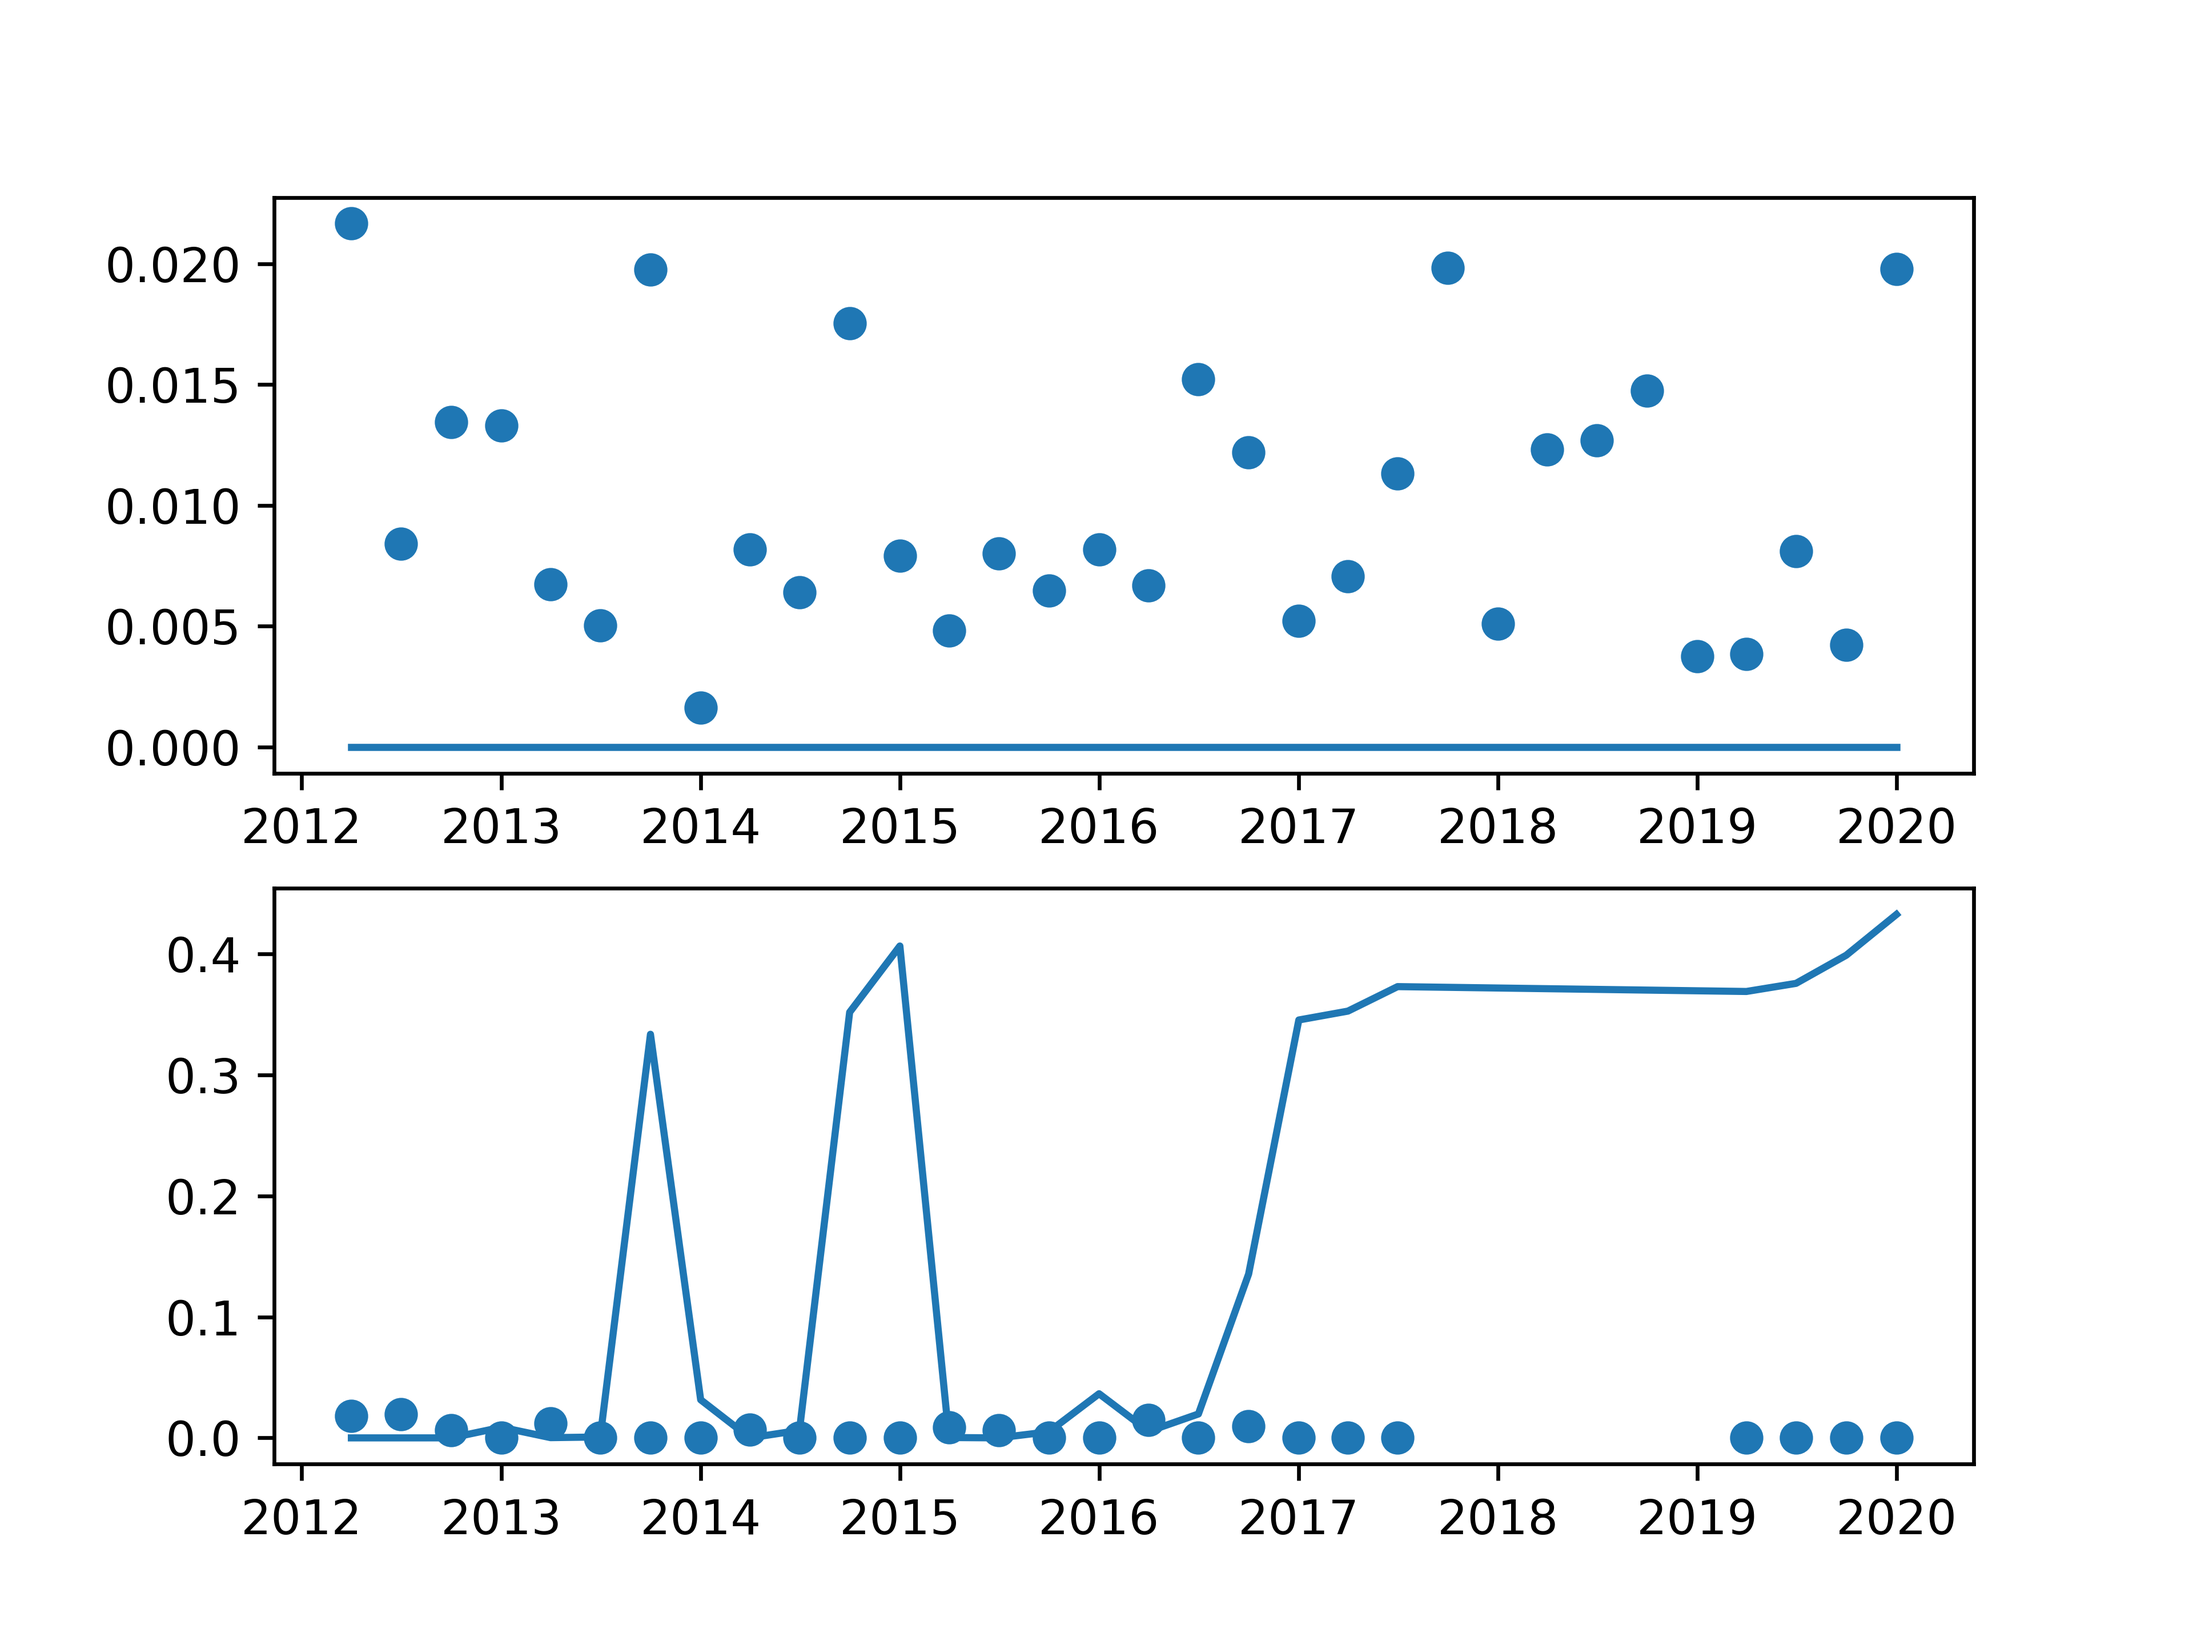
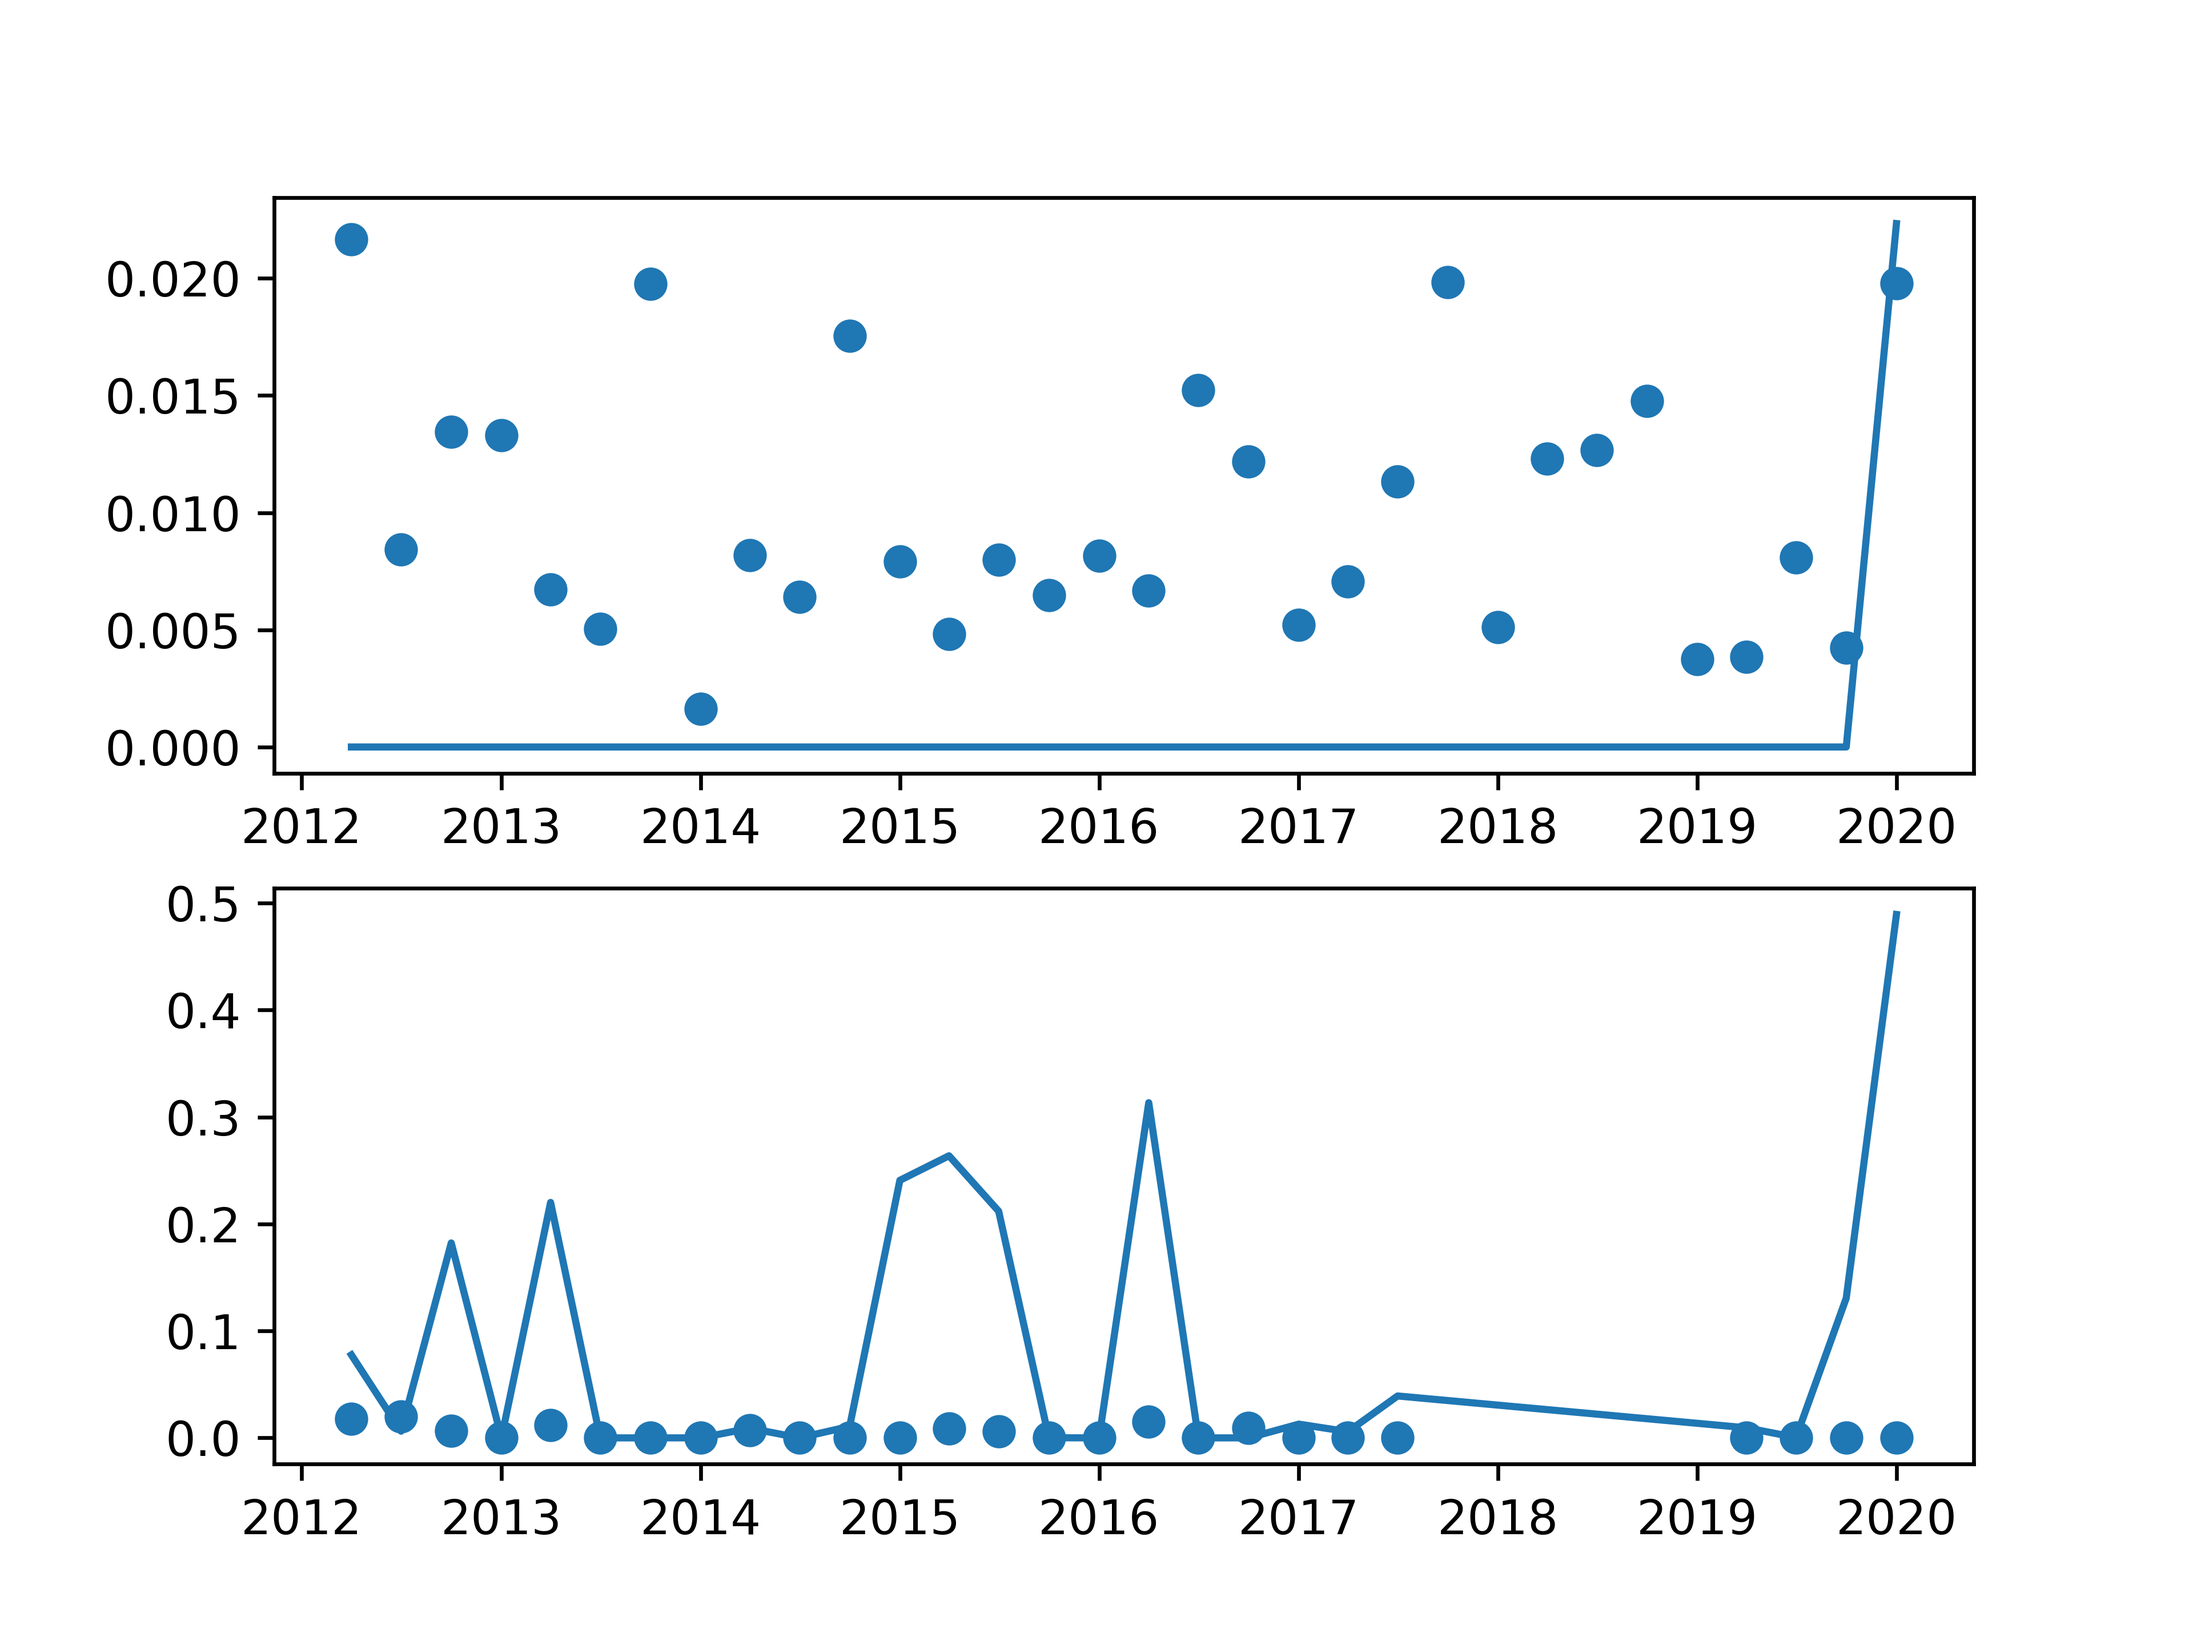
GLS-RFinal

diff --git a/Functions/Data_Fitting.py b/Functions/Data_Fitting.py
@@ -54,7 +54,6 @@ X = data[names].to_numpy()
 Z = data[names[np.char.find(names, "b_") == -1]]
 
 X = sm.add_constant(X)
-Z = sm.add_constant(Z)
 
 resid = sm.OLS(Y, X).fit().resid
 
